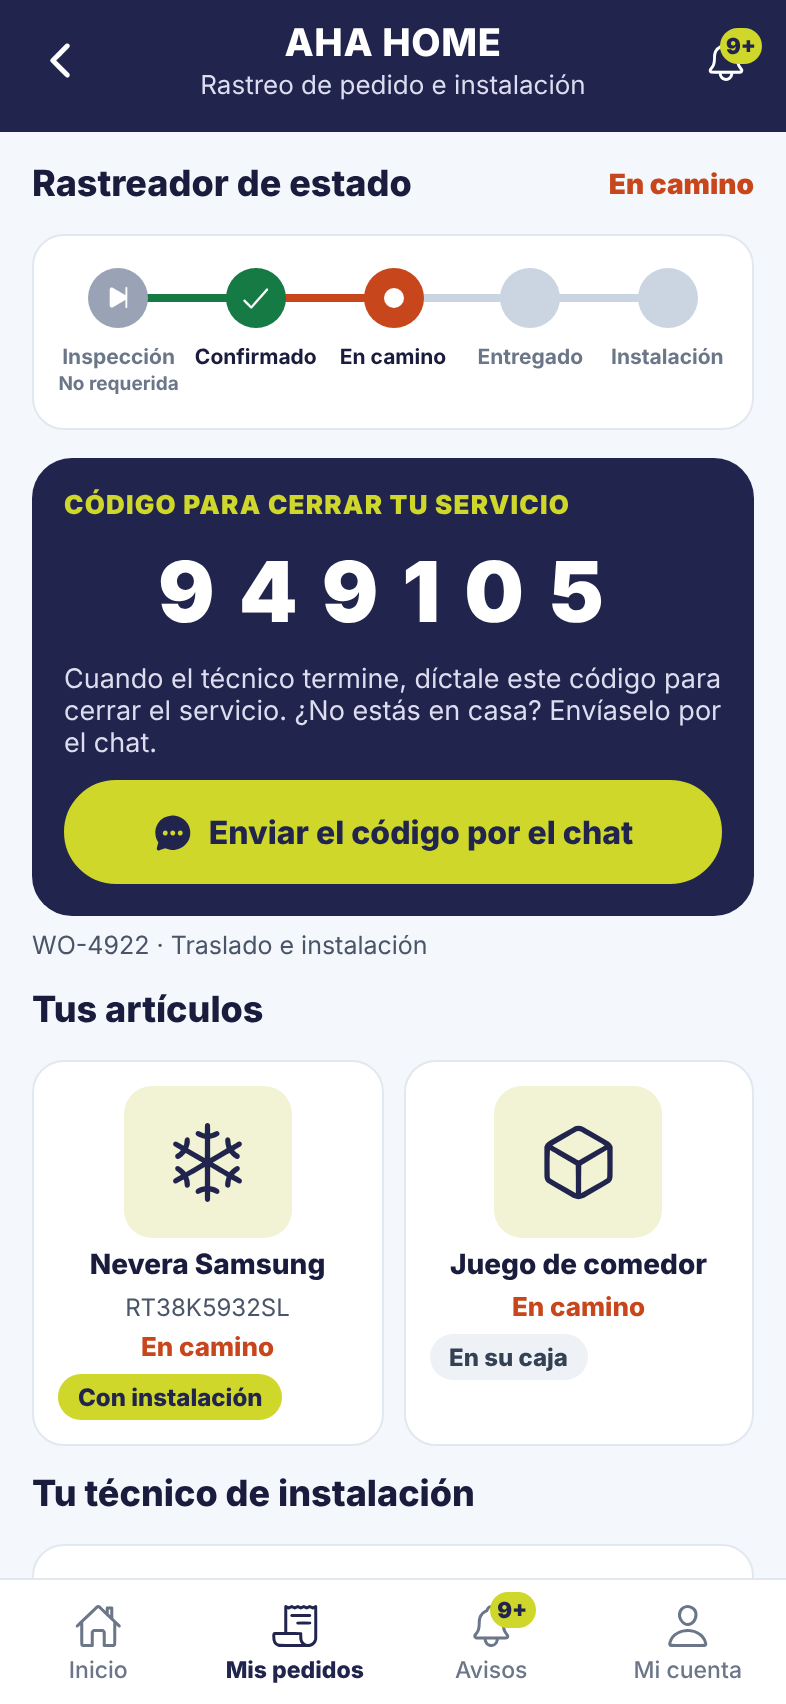
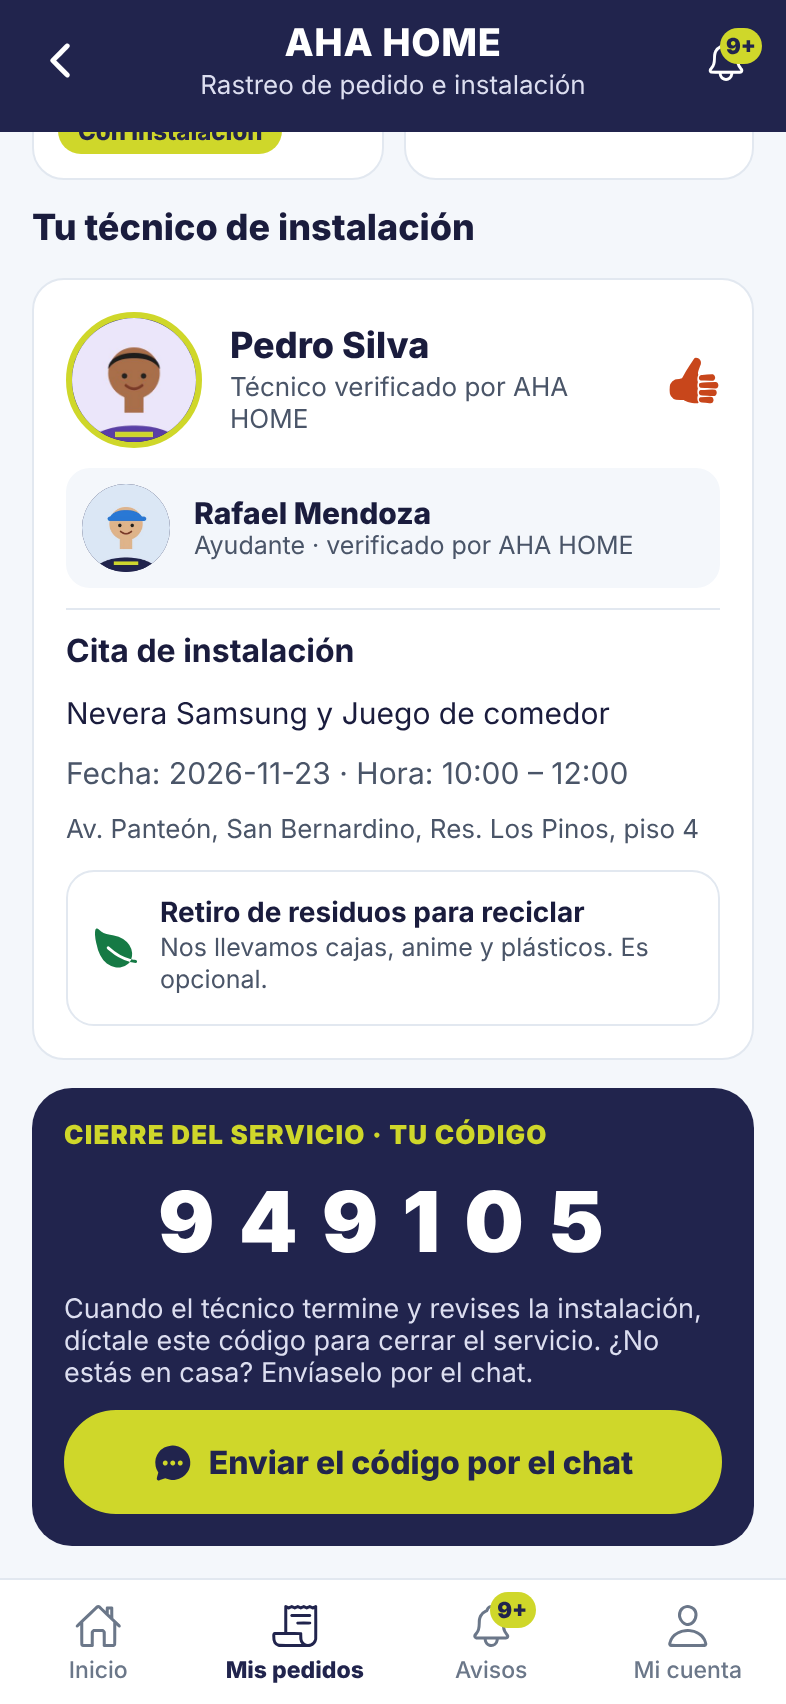
El código de cierre va al final de la pantalla del cliente, cuando el técnico ya llegó
Claude-Session: https://claude.ai/code/session_014SMz9zz3oS1yaniiLYwkLp

diff --git a/mobile/src/screens/cliente/Rastreo.tsx b/mobile/src/screens/cliente/Rastreo.tsx
@@ -66,7 +66,7 @@ function Rastreador({ f }: { f: Fase[] }) {
 }
 
 /** Código para cerrar el servicio: se lo dicta al técnico o se lo manda por el chat si no está en casa. */
-function CodigoCierre({ id, token, enCasa }: { id: number; token: string; enCasa: boolean }) {
+function CodigoCierre({ id, token }: { id: number; token: string }) {
   const [enviado, setEnviado] = useState<string | null>(null);
   async function enviar() {
     try { await api(`/ordenes/${id}/chat`, { body: { texto: `🔐 Mi código para cerrar el servicio es ${token}`, foto: "" } }); setEnviado("Listo: se lo enviaste al técnico por el chat."); }
@@ -74,10 +74,10 @@ function CodigoCierre({ id, token, enCasa }: { id: number; token: string; enCasa
   }
   return (
     <View style={{ backgroundColor: C.marino, borderRadius: 20, padding: 16, gap: 10 }}>
-      <Text style={{ color: C.lima, fontWeight: "900", fontSize: 13, letterSpacing: 0.6 }}>CÓDIGO PARA CERRAR TU SERVICIO</Text>
+      <Text style={{ color: C.lima, fontWeight: "900", fontSize: 13, letterSpacing: 0.6 }}>CIERRE DEL SERVICIO · TU CÓDIGO</Text>
       <Text accessibilityLabel={`Código ${token.split("").join(" ")}`} style={{ color: C.blanco, fontSize: 42, fontWeight: "900", letterSpacing: 12, textAlign: "center" }}>{token}</Text>
       <Text style={{ color: "#DCDEF0", fontSize: 13.5 }}>
-        {enCasa ? "Cuando el técnico termine y revises la instalación, díctale este código para cerrar el servicio." : "Cuando el técnico termine, díctale este código para cerrar el servicio."} ¿No estás en casa? Envíaselo por el chat.
+        Cuando el técnico termine y revises la instalación, díctale este código para cerrar el servicio. ¿No estás en casa? Envíaselo por el chat.
       </Text>
       <Boton titulo="Enviar el código por el chat" tipo="lima" icono="chatbubble-ellipses" onPress={enviar} />
       {enviado ? <Text style={{ color: C.lima, fontWeight: "700", fontSize: 13 }}>{enviado}</Text> : null}
@@ -143,7 +143,6 @@ export default function Rastreo({ id, inicio }: { id: number; inicio?: boolean }
         <Text style={{ fontSize: 14, fontWeight: "900", color: colorEstado }}>{estadoCorto}</Text>
       </View>
       <Rastreador f={f} />
-      {o.cierre?.token ? <CodigoCierre id={o.id} token={o.cierre.token} enCasa={o.estado === "en_progreso"} /> : null}
       <Text style={{ fontSize: 12.5, color: C.gris, marginTop: -6 }}>{o.codigo} · {o.tipo_servicio_texto}</Text>
 
       {o.pausa?.activa ? (
@@ -230,6 +229,13 @@ export default function Rastreo({ id, inicio }: { id: number; inicio?: boolean }
         ) : null}
         {o.pago_instalacion.pagado ? <PagoServicio pago={o.pago_instalacion} titulo="TU PAGO EN LA TIENDA" donde="pagado en la tienda" /> : null}
       </Tarjeta>
+
+      {o.cierre?.token ? <CodigoCierre id={o.id} token={o.cierre.token} /> : o.estado === "en_ruta" ? (
+        <View style={{ borderRadius: 20, borderWidth: 2, borderStyle: "dashed", borderColor: C.borde, padding: 16, gap: 4 }}>
+          <Text style={{ color: C.marino, fontWeight: "900", fontSize: 13, letterSpacing: 0.6 }}>CIERRE DEL SERVICIO</Text>
+          <Texto gris size={13.5}>Tu código para cerrar el servicio aparecerá aquí cuando el técnico llegue.</Texto>
+        </View>
+      ) : null}
 
       {o.estado === "completado" ? (
         <Tarjeta>

diff --git a/backend/tests/test_flujo.py b/backend/tests/test_flujo.py
@@ -811,6 +811,8 @@ def test_cierre_con_codigo_del_cliente(client):
     cliente = login(client, "maria@ahahome.test")
     client.post(f"/tecnico/ordenes/{o['id']}/confirmar", headers=tecnico)
     client.post("/tecnico/retiro", json={"qr": o["qr"]}, headers=tecnico)
+    assert client.get(f"/ordenes/{o['id']}", headers=cliente).json()["cierre"] is None  # en ruta: todavía no
+    client.post(f"/tecnico/ordenes/{o['id']}/llegada", headers=tecnico)
     vc = client.get(f"/ordenes/{o['id']}", headers=cliente).json()
     token = vc["cierre"]["token"]
     assert len(token) == 6 and token.isdigit()
@@ -818,7 +820,6 @@ def test_cierre_con_codigo_del_cliente(client):
     assert "token" not in vt["cierre"] and vt["cierre"]["requiere_token"]
     sup = login(client, "supervisor@ahahome.test")
     assert client.get(f"/ordenes/{o['id']}", headers=sup).json()["cierre"]["token"] == token
-    client.post(f"/tecnico/ordenes/{o['id']}/llegada", headers=tecnico)
     req = vt["checklist_requerido"]
     client.put(f"/tecnico/ordenes/{o['id']}/checklist", json={"items": {k: True for k in req}}, headers=tecnico)
     client.put(f"/tecnico/ordenes/{o['id']}/fotos", json={"fotos": {k: "x.jpg" for k in vt["fotos_requeridas"]}}, headers=tecnico)

diff --git a/backend/app/ordenes.py b/backend/app/ordenes.py
@@ -231,7 +231,7 @@ def vista(orden: Orden, rol: str) -> dict:
         d["ayudantes"] = [ficha_cliente(a) for a in orden.ayudantes] if en_camino else []
         d["tecnico_asignado"] = orden.tecnico is not None
         # Código de cierre: el cliente se lo dicta al técnico (o se lo manda por el chat) cuando termina el servicio
-        d["cierre"] = {"token": orden.token_cierre} if orden.estado in ("en_ruta", "en_progreso") and orden.token_cierre else None
+        d["cierre"] = {"token": orden.token_cierre} if orden.estado == "en_progreso" and orden.token_cierre else None
     else:
         d["tecnico"] = ficha(orden.tecnico)
         d["ayudantes"] = [ficha(a) for a in orden.ayudantes]
